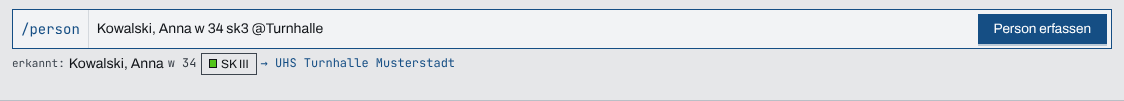
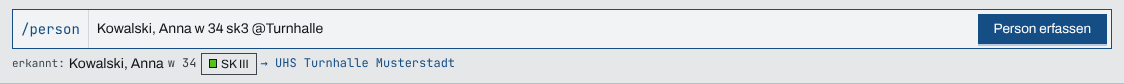
fix(personen): Kürzel-Legende über der Liste, Leer-Hinweis über der Legende
Am laufenden System gesehen: ab md lagen Tabellenkopf und Zeilen über
der Legenden-Schicht (Stapelfolge jetzt unter dem Eingangsband, über der
Liste), und die Schicht verdeckte „Noch nichts eingegeben“ (der Hinweis
steht jetzt in der Zeile über ihr). Am Handschirm steht das Zeichen über
seiner Bedeutung statt daneben. Kapitelbild „kurzeingabe“ neu erzeugt.

Zunder: https://zunder.rubeen.dev/#/aufgabe/msg8cvtpw23eq84hxh5oyyfc

Claude-Session: https://claude.ai/code/session_01BgRwpYCWqFPgBTswXr8f5E

diff --git a/frontend/src/personen/BetroffeneZeile.tsx b/frontend/src/personen/BetroffeneZeile.tsx
@@ -251,7 +251,9 @@ export default function BetroffeneZeile({
       : 'vorleser';
   const raster = {
     display: 'grid',
-    gridTemplateColumns: 'max-content minmax(0, 1fr)',
+    // Am Handschirm Zeichen über Bedeutung: neben „rot · gelb · grün · blau“ bliebe der Bedeutung
+    // kaum ein Drittel der Breite.
+    gridTemplateColumns: istSchmal ? 'minmax(0, 1fr)' : 'max-content minmax(0, 1fr)',
     columnGap: token.padding,
     rowGap: token.marginXXS,
     margin: 0,
@@ -269,7 +271,9 @@ export default function BetroffeneZeile({
             position: 'absolute',
             top: '100%',
             insetInlineStart: 0,
-            zIndex: 2,
+            // Über Tabellenkopf und Zeilen der Liste, unter dem Eingangsband (`zIndexPopupBase - 1`)
+            // und allen Klappflächen.
+            zIndex: token.zIndexPopupBase - 2,
             width: 'max-content',
             maxWidth: 'min(720px, calc(100vw - 32px))',
             marginBlockStart: token.marginXXS,
@@ -300,11 +304,18 @@ export default function BetroffeneZeile({
             visibility: leer ? 'visible' : 'hidden',
           }}
         >
+          {/* In der Ebene des leeren Felds, ÜBER der Legenden-Schicht (die sonst den Hinweis
+              verdeckte). Immer im Baum, damit Vorlesende die Meldung beim Erscheinen hören. */}
+          <span role="status" style={leerVersuch ? undefined : NUR_VORLESER}>
+            {leerVersuch ? 'Noch nichts eingegeben' : ''}
+          </span>
           <dl id={kuerzelId} data-lfh="kuerzel" aria-label="Kürzel" style={legendeStil}>
             {LEGENDE.map((z) => (
               <div key={z.zeichen} style={{ display: 'contents' }}>
                 <dt style={{ ...monoStil('mono'), color: rollen.bedien }}>{z.zeichen}</dt>{' '}
-                <dd style={{ margin: 0 }}>{z.bedeutung}</dd>
+                <dd style={{ margin: 0, marginBlockEnd: istSchmal ? token.marginXS : 0 }}>
+                  {z.bedeutung}
+                </dd>
               </div>
             ))}
           </dl>
@@ -347,10 +358,6 @@ export default function BetroffeneZeile({
           {zuletzt}
         </span>
       )}
-      {/* Immer im Baum, damit Vorlesende die Meldung beim Erscheinen hören. */}
-      <span role="status" style={leerVersuch ? { flexBasis: '100%' } : NUR_VORLESER}>
-        {leerVersuch ? 'Noch nichts eingegeben' : ''}
-      </span>
       {versuchFehler && versuchFehler.length > 0 && (
         <span role="alert" style={{ flexBasis: '100%', color: rollen.alarmText }}>
           Nicht erfasst: {versuchFehler.join(' · ')}
